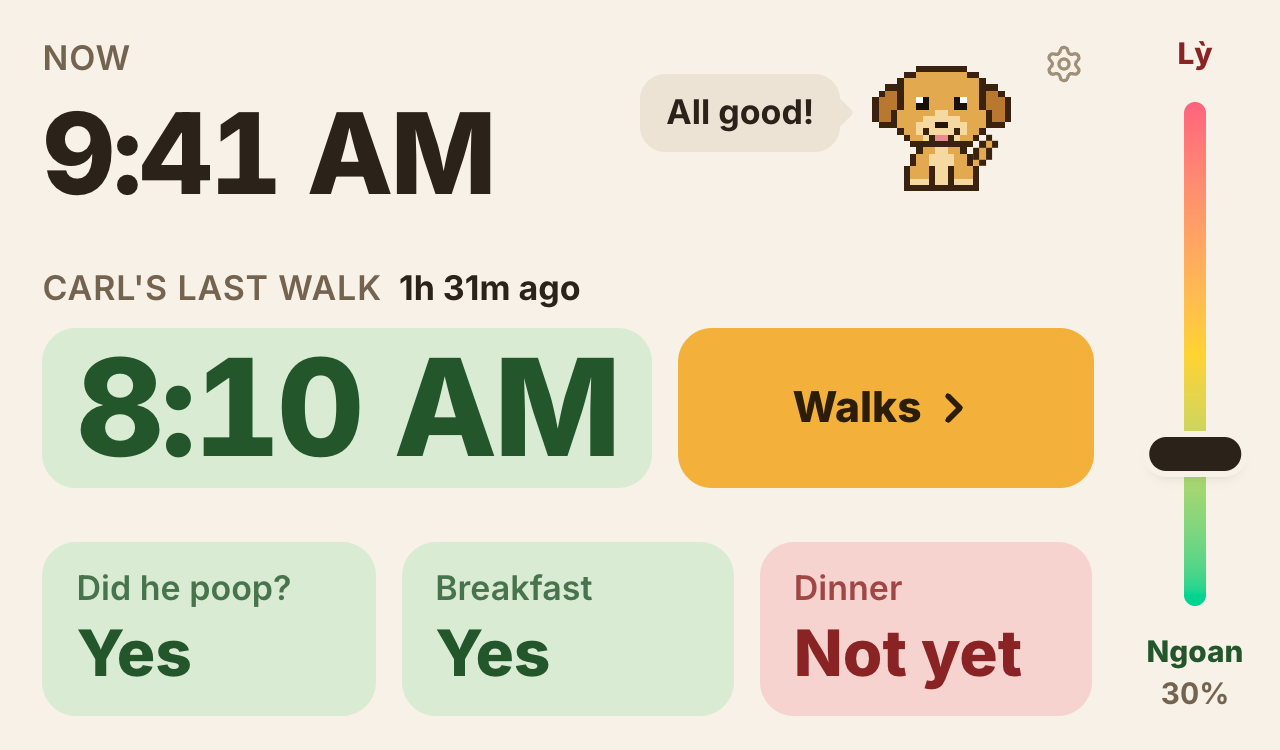
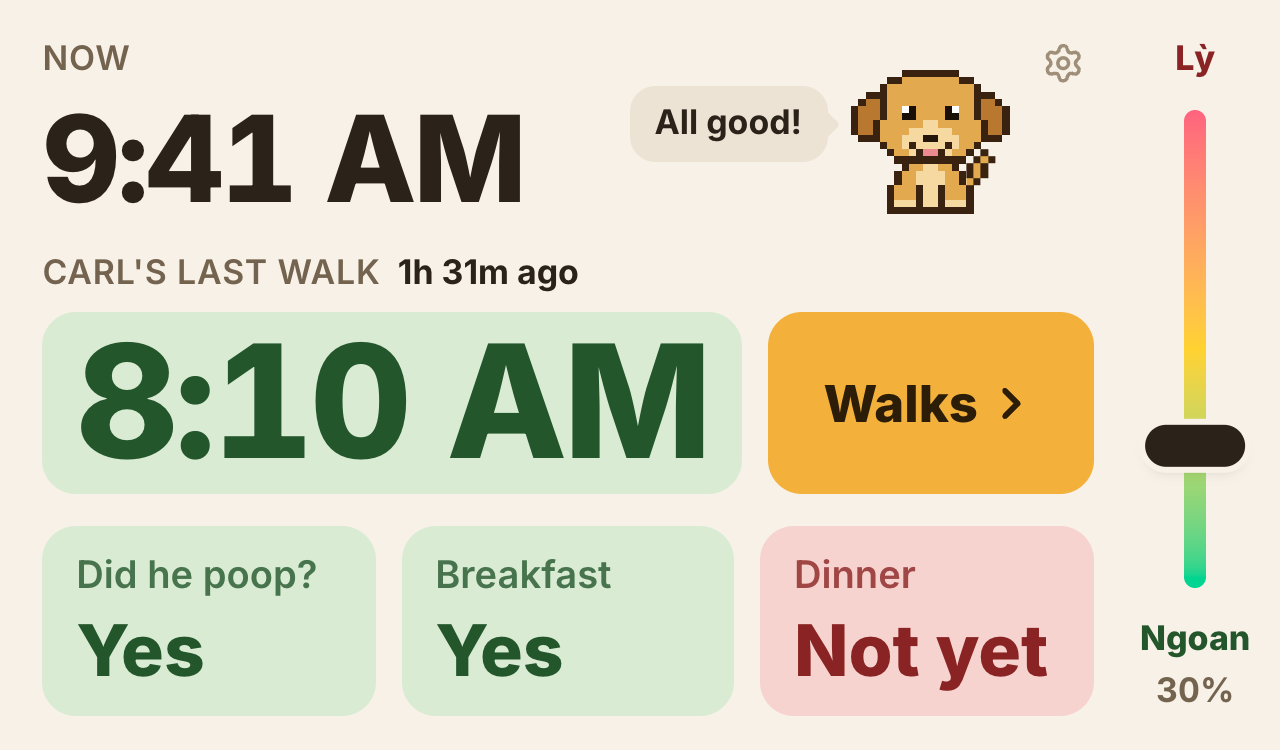
make the last walk time, tiles, dog and lỳ handle bigger
The Walks button was taking almost half the row; it's narrower now so the time
can grow. Tiles, the dog and the slider handle use the spare room too. The antsy
bubble says "Walk?" so the top row fits even with a wide clock.

diff --git a/dibo-tracker/src/components/Dashboard.tsx b/dibo-tracker/src/components/Dashboard.tsx
@@ -35,7 +35,7 @@ function dogMood(hoursSinceWalk: number | null, now: Date): DogMood {
 
 const DOG_SAYS: Record<DogMood, string> = {
   happy: "All good!",
-  antsy: "Walk soon?",
+  antsy: "Walk?",
   needs: "Walk me!",
   sleepy: "Zzz…",
 };
@@ -71,7 +71,7 @@ export function Dashboard({
   return (
     <div className="flex h-dvh gap-5 py-4 pl-5 pr-3">
       <main className="flex min-w-0 flex-1 flex-col justify-between">
-        <div className="flex items-start justify-between gap-4">
+        <div className="flex items-start justify-between gap-3">
           <div>
             <Label>
               Now
@@ -81,18 +81,18 @@ export function Dashboard({
                 </span>
               )}
             </Label>
-            <div className="text-[clamp(2.75rem,min(15vh,12vw),8rem)] whitespace-nowrap font-extrabold leading-none tracking-tight tabular-nums">
+            <div className="text-[clamp(2.75rem,min(16vh,12.3vw),9rem)] whitespace-nowrap font-extrabold leading-none tracking-tight tabular-nums">
               {formatClock(now)}
             </div>
           </div>
 
           <div className="-mr-2 -mt-2 flex items-start">
-            <button onClick={onOpenWalks} className="flex items-center gap-3 pt-2" aria-label={`${profile.name}: ${DOG_SAYS[mood]}`}>
-              <span className="relative rounded-xl bg-surface px-3 py-1.5 text-base font-bold text-ink max-[520px]:hidden">
+            <button onClick={onOpenWalks} className="flex items-center gap-2 pt-2" aria-label={`${profile.name}: ${DOG_SAYS[mood]}`}>
+              <span className="relative whitespace-nowrap rounded-xl bg-surface px-3 py-1.5 text-base font-bold text-ink max-[520px]:hidden">
                 {DOG_SAYS[mood]}
                 <span className="absolute -right-1 top-1/2 size-2.5 -translate-y-1/2 rotate-45 rounded-[2px] bg-surface" />
               </span>
-              <PixelDog mood={mood} className="h-[clamp(4.25rem,21vh,9rem)]" />
+              <PixelDog mood={mood} className="h-[clamp(4.25rem,24vh,11rem)]" />
             </button>
             <button
               onClick={onOpenSettings}
@@ -111,13 +111,13 @@ export function Dashboard({
           </Label>
           <div className="flex flex-wrap gap-3">
             <div
-              className={`shrink-0 whitespace-nowrap rounded-2xl px-4 py-1.5 text-[clamp(3rem,min(18vh,13vw),10rem)] font-extrabold leading-none tracking-tight tabular-nums ${walkTone(hoursSinceWalk)}`}
+              className={`shrink-0 whitespace-nowrap rounded-2xl px-4 py-1.5 text-[clamp(3rem,min(21vh,14vw),12rem)] font-extrabold leading-none tracking-tight tabular-nums ${walkTone(hoursSinceWalk)}`}
             >
               {lastWalk ? formatClock(lastWalk.time) : "None yet"}
             </div>
             <button
               onClick={onOpenWalks}
-              className="flex min-h-14 min-w-32 flex-1 items-center justify-center gap-1 rounded-2xl bg-accent text-xl font-extrabold text-on-accent active:bg-accent-press"
+              className="flex min-h-14 min-w-28 flex-1 items-center justify-center gap-1 rounded-2xl bg-accent text-2xl font-extrabold text-on-accent active:bg-accent-press"
             >
               Walks
               <ChevronRight className="size-6" strokeWidth={2.75} />
@@ -149,8 +149,8 @@ function StatusTile({ label, done, onClick }: { label: string; done: boolean; on
         done ? "bg-good text-on-good" : "bg-alert text-on-alert"
       }`}
     >
-      <div className="truncate text-base font-semibold opacity-80">{label}</div>
-      <div className="text-[clamp(1.5rem,5vw,2.5rem)] font-extrabold leading-tight">{done ? "Yes" : "Not yet"}</div>
+      <div className="truncate text-lg font-semibold opacity-80">{label}</div>
+      <div className="text-[clamp(1.5rem,min(9.5vh,5.6vw),3rem)] font-extrabold leading-tight">{done ? "Yes" : "Not yet"}</div>
     </button>
   );
 }

diff --git a/dibo-tracker/src/components/LyMeter.tsx b/dibo-tracker/src/components/LyMeter.tsx
@@ -17,7 +17,7 @@ export function LyMeter({ level, onChange }: LyMeterProps) {
   };
 
   return (
-    <aside className="flex w-14 shrink-0 flex-col items-center text-sm font-extrabold">
+    <aside className="flex w-14 shrink-0 flex-col items-center text-base font-extrabold">
       <div className="text-on-alert">Lỳ</div>
       {/* The whole column is the touch target, not just the thin bar. */}
       <div
@@ -34,7 +34,7 @@ export function LyMeter({ level, onChange }: LyMeterProps) {
       >
         <div className="h-full w-2.5 rounded-full bg-linear-to-b from-rose-400 via-amber-300 to-emerald-400" />
         <div
-          className="pointer-events-none absolute left-1/2 h-4 w-11 -translate-x-1/2 -translate-y-1/2 rounded-full bg-ink shadow-md ring-[3px] ring-canvas"
+          className="pointer-events-none absolute left-1/2 h-5 w-12 -translate-x-1/2 -translate-y-1/2 rounded-full bg-ink shadow-md ring-[3px] ring-canvas"
           style={{ top: `${100 - level}%` }}
         />
       </div>
